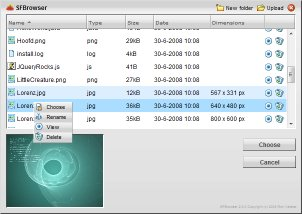
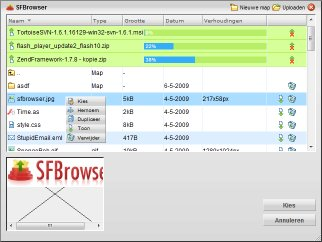
git-svn-id: http://sfbrowser.googlecode.com/svn/trunk@43 2875b8c0-c6ca-11dd-bfe9-7982af55821d

diff --git a/web/sfbrowser/jquery.sfbrowser.js b/web/sfbrowser/jquery.sfbrowser.js
@@ -18,6 +18,7 @@
 *
 * features
 *   - ajax file upload
+*	- optional as3 swf upload (queued multiple uploads, upload progress, upload canceling, selection filtering, size filtering)
 *   - localisation (English, Dutch or Spanish)
 *	- server side script connector
 *	- plugin environment (with filetree and imageresize plugin)
@@ -28,7 +29,7 @@
 *   - file duplication
 *   - file download
 *   - file/folder context menu
-*   - file preview (image, audio, video and text/ascii)
+*   - file preview (image, audio, video, text/ascii and swf)
 *	- folder creation
 *   - multiple files selection (not in IE for now)
 *	- inline or overlay window
@@ -141,7 +142,7 @@
 			,folder:	""						// subfolder (relative to base), all returned files are relative to base
 			,dirs:		true					// allow visibility and creation/deletion of subdirectories
 			,upload:	true					// allow upload of files
-			,swfupload:	false					// use swf uploader instead of form hack
+			,swfupload:	!false					// use swf uploader instead of form hack
 			,allow:		[]						// allowed file extensions
 			,resize:	null					// resize images after upload: array(width,height) or null
 			,inline:	"body"					// a JQuery selector for inline browser
@@ -164,8 +165,8 @@
 			,connector:	"php"					// connector file type (php)
 			,lang:		{}						// language object
 			,plugins:	[]						// plugins
-			,debug:		false					// debug (allows trace to console)
 			,maxsize:	2097152					// upload_max_filesize in bytes
+			,debug:		false					// debug (allows trace to console)
 		}
 		// add language on the fly
 		,addLang: function(oLang) {

diff --git a/web/style/screen.css b/web/style/screen.css
@@ -111,7 +111,7 @@ body {
 	}
 
 #page table {
-	border: 1px solid #90BBDB;/*#CFD4E6;*/
+	border: 1px solid #9BE62B;/*#90BBDB;#CFD4E6;*/
 }
 	#page table th, #page table td {
 		padding: 2px 5px 2px 5px;
@@ -119,8 +119,8 @@ body {
 	#page table th {
 		color: #444;/*#fff;*/
 		text-align: left;
-		border-bottom: 1px solid #90BBDB;/*#aaa;*/
-		background-color: #CEE9F4;/*#90BBDB;#727EA3;*/
+		border-bottom: 1px solid #9BE62B;/*#90BBDB;#aaa;*/
+		background-color: #B8ED67;/*#CEE9F4;#90BBDB;#727EA3;*/
 	}
 	#page table th, #page table td {
 		font-size: .7em;
@@ -128,7 +128,7 @@ body {
 		vertical-align: top;
 	}
 	#page table tr.odd {
-		background-color: #E6F1F4;/*#E0E3EE;*/
+		background-color: #E6F1F4;/*#E6F1F4;E0E3EE;*/
 	}
 #page pre {
 	font-size: .9em;

diff --git a/web/index.php b/web/index.php
@@ -51,6 +51,7 @@
 			<h3>features</h3>
 			<ul>
 				<li>ajax file upload</li>
+				<li>optional as3 swf upload (queued multiple uploads, upload progress, upload canceling, selection filtering, size filtering)</li>
 				<li>localisation (English, Dutch or Spanish)</li>
 				<li>server side script connector</li>
 				<li>plugin environment (with filetree and imageresize plugin)</li>
@@ -61,13 +62,14 @@
 				<li>file duplication</li>
 				<li>file download</li>
 				<li>file/folder context menu</li>
-				<li>file preview (image and text/ascii)</li>
+				<li>file preview (image, audio, video, text/ascii and swf)</li>
 				<li>folder creation</li>
 				<li>multiple files selection</li>
 				<li>inline or overlay window</li>
 				<li>window dragging and resizing</li>
 				<li>cookie for size, position and path</li>
 				<li>keyboard shortcuts</li>
+				<li>key file selection</li>
 			</ul>
 
 			<h3>caution</h3>
@@ -95,6 +97,7 @@
 					<tr><td>SFB_LANG</td>			<td>String</td>		<td>language ISO code</td><td>"en"</td></tr>
 					<tr><td>PREVIEW_BYTES</td>		<td>Integer</td>	<td>ASCII files can be previewed up to a certain amout of bytes.</td><td>600</td></tr>
 					<tr><td>SFB_DENY</td>			<td>String</td>		<td>forbidden file extensions</td><td>"php,php3,phtml"</td></tr>
+					<tr><td>FILETIME</td>			<td>String</td>		<td>datetime format</td><td>"j-n-Y H:i"</td></tr>
 					<tr><td>SFB_ERROR_RETURN</td>	<td>String</td>		<td>return value in case of error</td><td>"&lt;html&gt;&lt;head&gt;&lt;meta http-equiv="Refresh" content="0;URL=http:/" /&gt;&lt;/head&gt;&lt;/html&gt;"</td></tr>
 					<tr><td>SFB_PLUGINS</td>		<td>String</td>		<td>case sensitive, comma separated string with plugin names</td><td>""imageresize,filetree""</td></tr>
 					<tr><td>SFB_DEBUG</td>			<td>Boolean</td>	<td>debug boolean, enables log file and console trace</td><td>false</td></tr>
@@ -118,9 +121,11 @@
 				<tbody>
 					<tr><td>title</td>	<td>String</td>		<td>title of the SFBrowser window</td><td>"SFBrowser"</td></tr>
 					<tr><td>select</td>	<td>Function</td>	<td>calback function on choose</td><td>function(a){trace(a)}</td></tr>
+					<tr><td>file</td>	<td>String</td>		<td>selected file</td><td>""</td></tr>
 					<tr><td>folder</td>	<td>String</td>		<td>a subfolder (relative to base, to which all returned files are relative)</td><td>""</td></tr>
 					<tr><td>dirs</td>	<td>Boolean</td>	<td>allow visibility and creation/deletion of subdirectories.</td><td>true</td></tr>
 					<tr><td>upload</td>	<td>Boolean</td>	<td>allow upload of files</td><td>true</td></tr>
+					<tr><td>swfupload</td><td>Boolean</td>	<td>use swf uploader instead of form hack</td><td>false</td></tr>
 					<tr><td>allow</td>	<td>Array&lt;String&gt;</td>		<td>allowed file extensions</td><td>[]</td></tr>
 					<tr><td>resize</td>	<td>Array&lt;Integer&gt;</td>		<td>maximum image constraint: array(width,height) or null</td><td>null</td></tr>
 					<tr><td>inline</td>	<td>String</td>		<td>a JQuery selector for inline browser</td><td>"body"</td></tr>
@@ -132,8 +137,9 @@
 					<tr><td>h</td>		<td>Integer</td>	<td>height</td><td>480</td></tr>
 				
 					<tr><th colspan="4">the following properties normally need no change</th></tr>
-					<tr><td>img</td>	<td>Array&lt;String&gt;</td>		<td>image file extensions for preview</td><td>["gif", "jpg", "jpeg", "png"]</td></tr>
-					<tr><td>ascii</td>	<td>Array&lt;String&gt;</td>		<td>text file extensions for preview</td><td>["txt", "xml", "html", "htm", "eml", "ffcmd", "js", "as", "php", "css", "java", "cpp", "pl", "log"]</td></tr>
+					<tr><td>img</td>	<td>Array&lt;String&gt;</td>	<td>image file extensions for preview</td><td>["gif", "jpg", "jpeg", "png"]</td></tr>
+					<tr><td>ascii</td>	<td>Array&lt;String&gt;</td>	<td>text file extensions for preview</td><td>["txt", "xml", "html", "htm", "eml", "ffcmd", "js", "as", "php", "css", "java", "cpp", "pl", "log"]</td></tr>
+					<tr><td>movie</td>	<td>Array&lt;String&gt;</td>	<td>movie file extensions for preview</td><td>["mp3","mp4","m4v","m4a","3gp","mov","flv","f4v"]</td></tr>
 					
 					<tr><th colspan="4">The following properties are set automaticly from the init file, explicitly setting these from js can lead to unexpected results.</th></tr>
 					<tr><td>sfbpath</td><td>String</td>		<td>the path of sfbrowser</td><td>"sfbrowser/"</td></tr>
@@ -144,6 +150,7 @@
 					<tr><td>connector</td><td>String</td>	<td>server side script type</td><td>"php"</td></tr>
 					<tr><td>lang</td><td>Object</td>		<td>language object</td><td>see lang/en.js</td></tr>
 					<tr><td>plugins</td><td>Array</td>		<td>plugins</td><td>[]</td></tr>
+					<tr><td>maxsize</td><td>Integer</td>	<td>upload_max_filesize in bytes</td><td>2097152</td></tr>
 					<tr><td>debug</td><td>Boolean</td>		<td>allows trace to console</td><td>false</td></tr>
 					
 				</tbody>
@@ -207,6 +214,11 @@
 			<p>The selected files are added to a list and their sizes are shown. Select multiple files by pressing CTRL and selecting. Start <a onclick="$.sfb({select:addFiles,plugins:[]});">adding files.</a></p>
 			<pre class="example">$.sfb({select:addFiles,plugins:[]});</pre> 
 			<div id="addfiles"></div>
+
+			<h3>swf uploader</h3>
+			<p>The <a onclick="$.sfb({select:addFiles,plugins:[]});">swf uploader</a> allows multiple simultanious uploads but does require the <a href="http://get.adobe.com/shockwave/" target="_blank">Adobe Shockwave plugin</a>.</p>
+			<pre class="example">$.sfb({select:addFiles,plugins:[],swfupload:true});</pre> 
+			<div id="addfiles"></div>
 			
 			<h3>allowing only images</h3>
 			<p>The <span class="property">allow</span> property is set to accept only images. The selected images are added to a div. Note also the title of the SFBrowser is now changed to: <a onclick="$.sfb({folder:'ImageFolder/',title:'Add some images',allow:['jpeg','png','gif','jpg'],resize:[640,480],select:addImages});">Add some images</a>.</p>
@@ -217,8 +229,7 @@
 	,resize:	[640,480]
 	,select:	addImages
 });</pre> 
-			<div id="addimages"></div>
-			
+
 			<h3>inline</h3>
 			<p>When you set the <span class="property">inline</span> property to something other than "body" SFBrowser will no appear as an overlay but inside the new value. The value has to be a regular JQuery selector with a single result. A selector with possible multiple results will really screw things up. If you're unsure about your selector simply add ':eq(0)' to it to ensure a single result<br/>
 			Contrary to an overlay, an inline SFBrowser will keep the rest of your page clickable.<br/>

diff --git a/web/sfbrowser/connectors/php/sfbrowser.php b/web/sfbrowser/connectors/php/sfbrowser.php
@@ -187,14 +187,30 @@ switch ($sAction) {
 					list($iW,$iH) = getimagesize($sFileTo);
 					$fXrs = $iToW/$iW;
 					$fYrs = $iToH/$iH;
-					$fRsz = min($fXrs,$fYrs);
-					if ($fRsz<1) {
-						$iNW = intval($iW*$fRsz);
-						$iNH = intval($iH*$fRsz);
-						$oImgN = imagecreatetruecolor($iNW,$iNH);
-						$oImg = imagecreatefromjpeg($sFileTo);
-						imagecopyresampled($oImgN,$oImg, 0,0, 0,0, $iNW,$iNH, $iW,$iH );
-						imagejpeg($oImgN, $sFileTo);
+					if (false) {//just resize
+						$fRsz = min($fXrs,$fYrs);
+						if ($fRsz<1) {
+							$iNW = intval($iW*$fRsz);
+							$iNH = intval($iH*$fRsz);
+							$oImgN = imagecreatetruecolor($iNW,$iNH);
+							$oImg = imagecreatefromjpeg($sFileTo);
+							imagecopyresampled($oImgN,$oImg, 0,0, 0,0, $iNW,$iNH, $iW,$iH );
+							imagejpeg($oImgN, $sFileTo);
+						}
+					} else { // crop after resize
+						$fRsz = max($fXrs,$fYrs);
+						if ($fRsz<1) {
+							$iNW = intval($iW*$fRsz);
+							$iNH = intval($iH*$fRsz);
+							$iFrX = $iNW>$iToW?($iNW-$iToW)/2:0;
+							$iFrY = $iNH>$iToH?($iNH-$iToH)/2:0;
+							$iFrW = $iNW>$iToW?$iToW*(1/$fRsz):$iW;
+							$iFrH = $iNH>$iToH?$iToH*(1/$fRsz):$iH;
+							$oImgN = imagecreatetruecolor($iToW,$iToH);
+							$oImg = imagecreatefromjpeg($sFileTo);
+							imagecopyresampled($oImgN,$oImg, 0,0, $iFrX,$iFrY, $iToW,$iToH, $iFrW,$iFrH );
+							imagejpeg($oImgN, $sFileTo);
+						}
 					}
 					$oFNfo = fileInfo($sFileTo);
 				}
